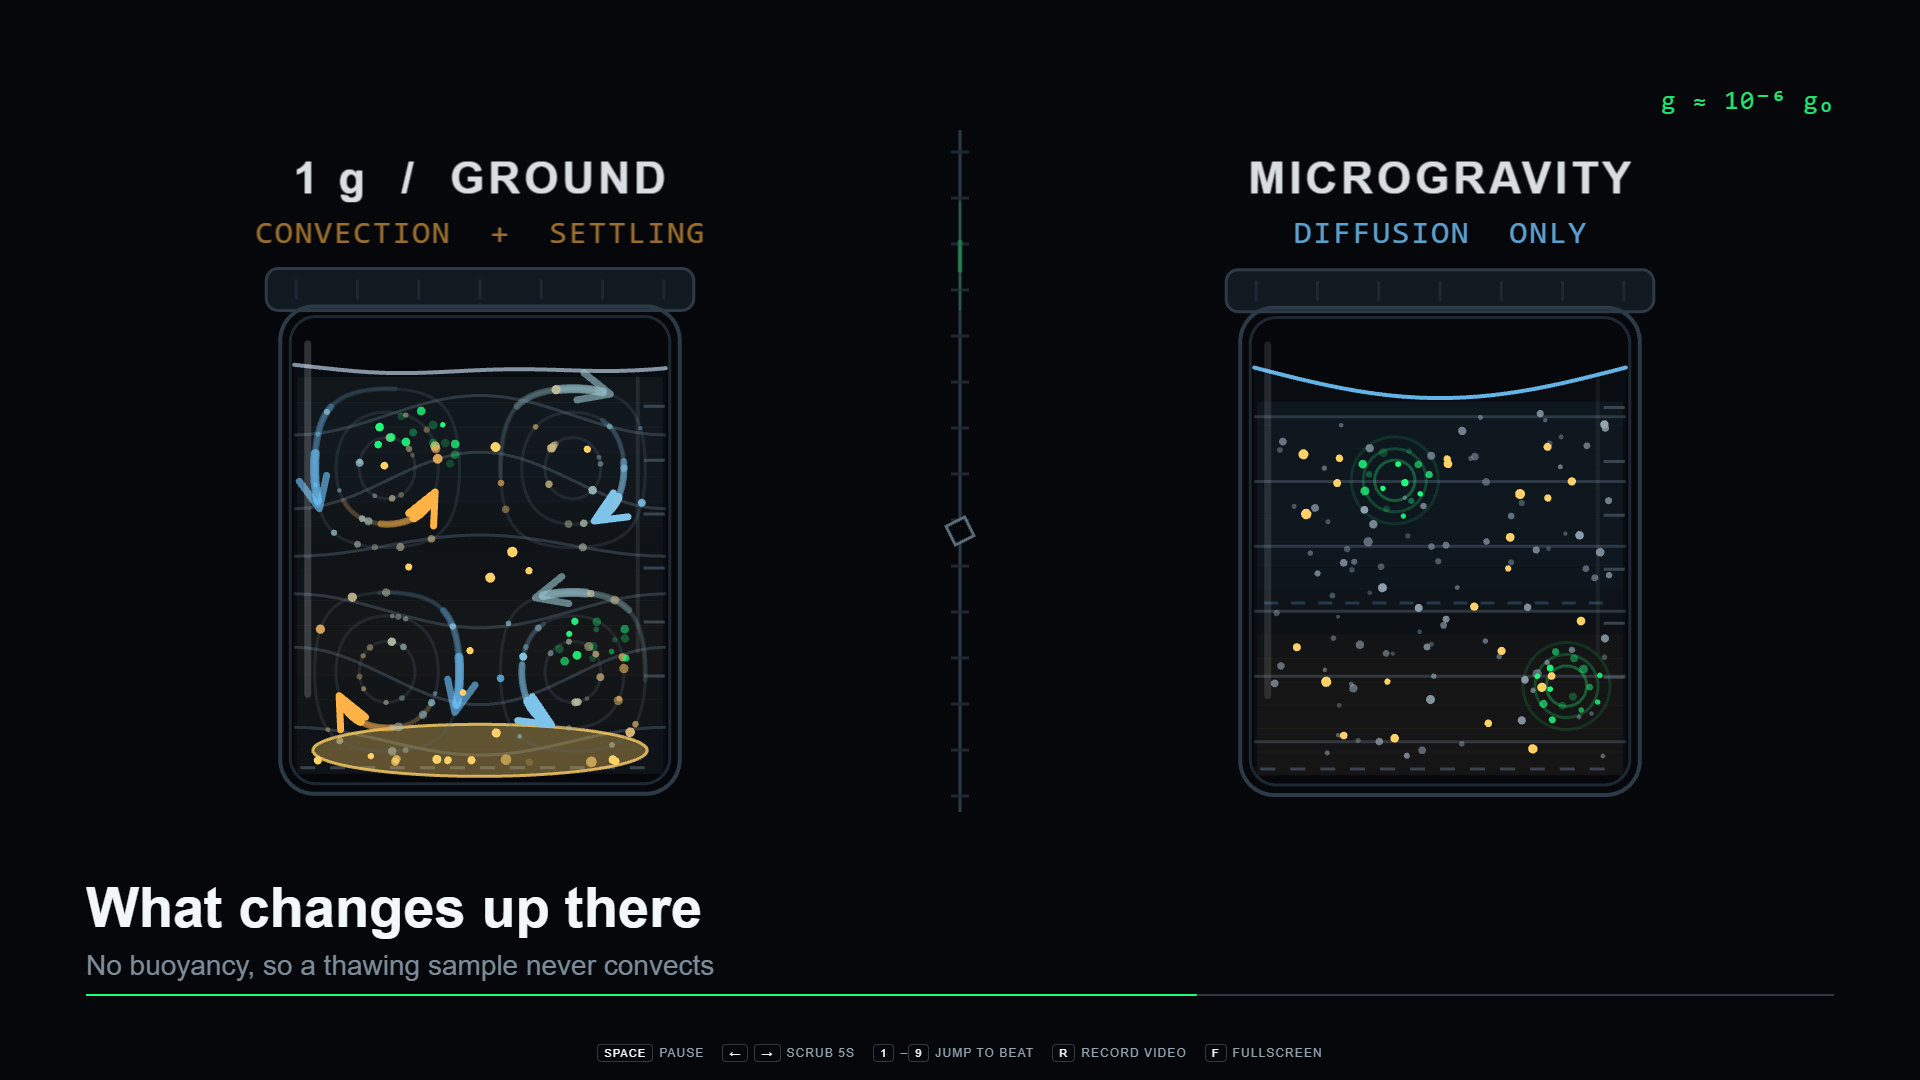
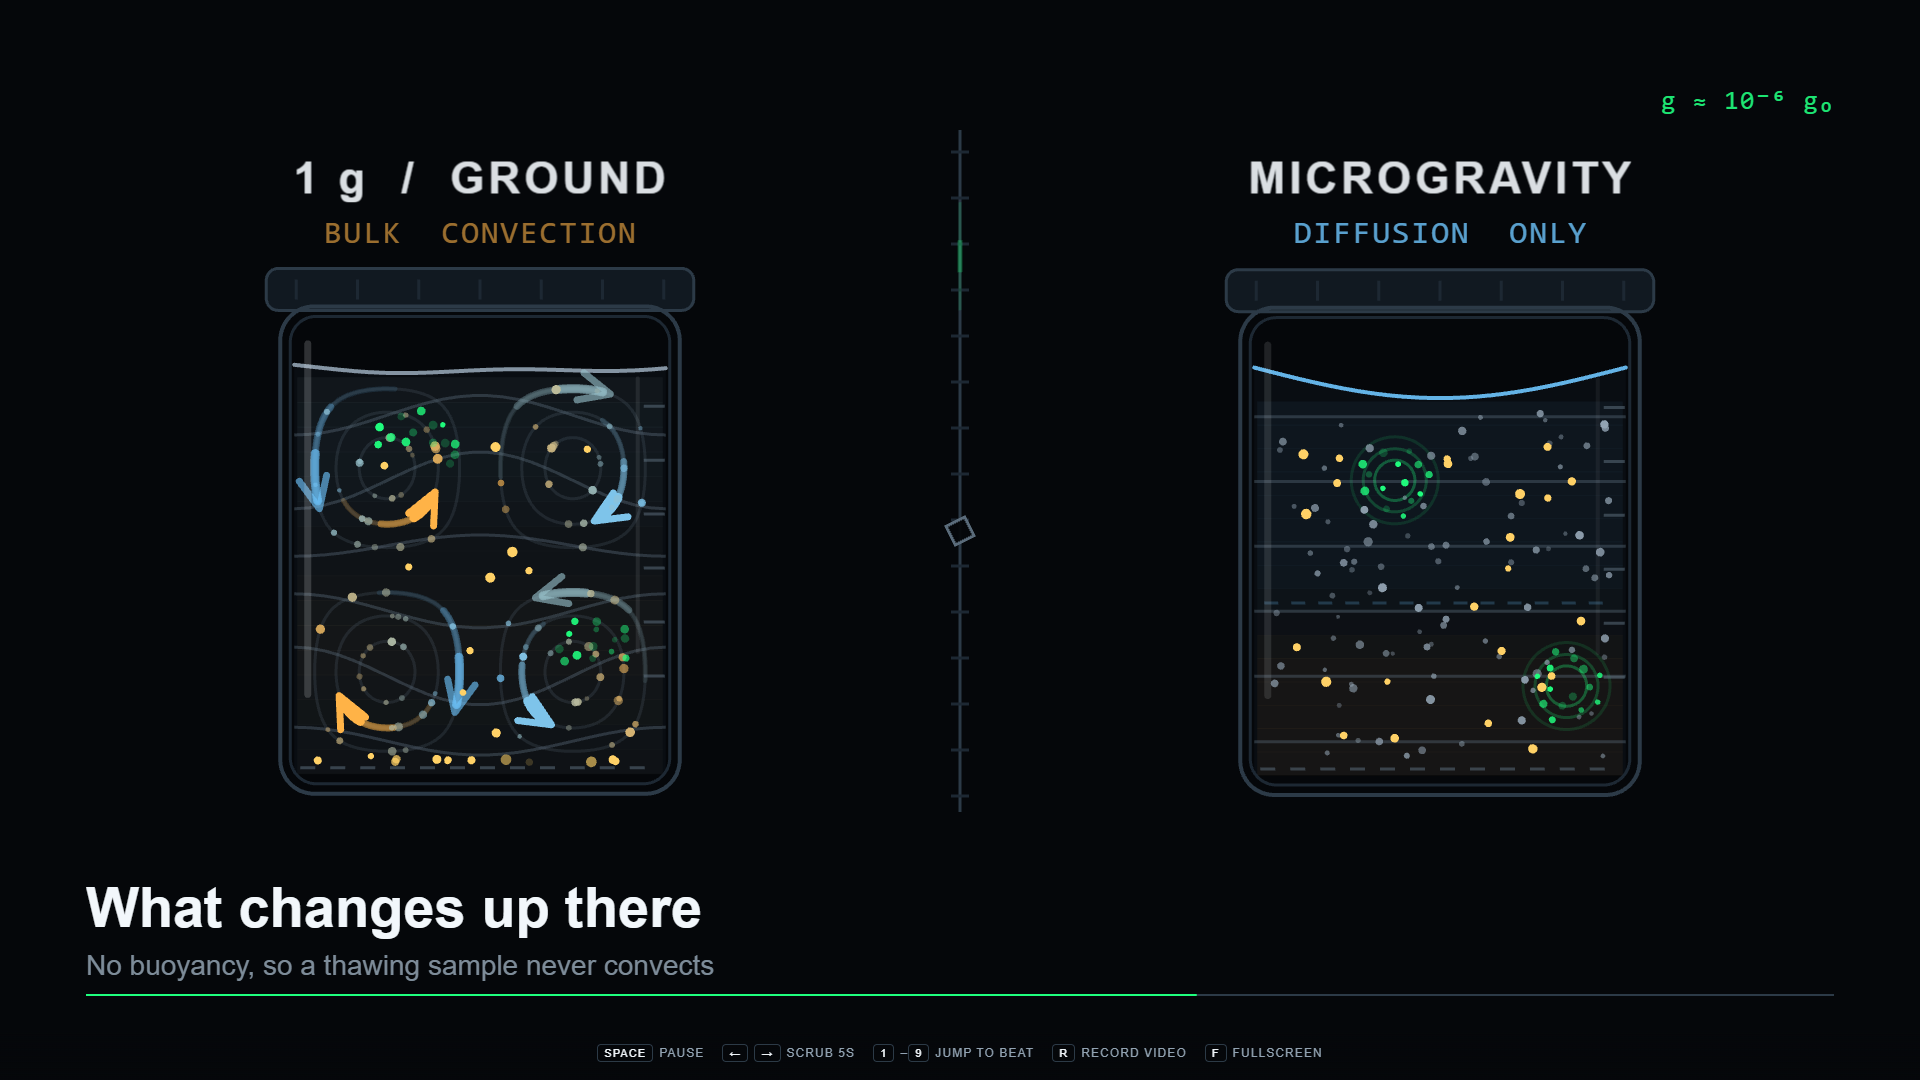
Remove sedimentation from the microgravity scene: it does not occur
The ground tube grew a settled pellet and was labelled "CONVECTION + SETTLING".
That contradicts the physics the experiment rests on. At 25 uL the gravitational
length scale kT/(m'g) is about 16.3 mm, which exceeds the liquid column; Stokes
settling over 20 h is roughly 20 um against about 0.80 mm of Brownian
displacement, and the Peclet number is about 0.61. Particles do not sort by
gravity in either condition.

Sedimentation being absent is precisely why buoyancy-driven convection during
thaw is the interesting variable, so depicting settling undercut the argument
the scene exists to make. Label is now "BULK CONVECTION" and the pellet is gone.

Changed region(s): [[0.125, 0.1833, 0.375, 0.2444], [0.1562, 0.6722, 0.3438, 0.7333]]

diff --git a/src/scenes/microgravity.js b/src/scenes/microgravity.js
@@ -517,8 +517,13 @@ export default {
     const SSIZE = Math.max(30, Math.round(H * 0.0296)); // 32
     const titleL = mkLabel('1 g  /  GROUND', cxL, TITLE_Y, TSIZE, '700', palette.ink, 4);
     const titleR = mkLabel('MICROGRAVITY', cxR, TITLE_Y, TSIZE, '700', palette.ink, 4);
+    // NOT "convection + settling". Sedimentation is absent in BOTH conditions:
+    // the gravitational length scale kT/(m'g) is about 16.3 mm, which exceeds the
+    // liquid column in a 25 uL tube, and the Peclet number is about 0.61. Showing
+    // particles settling on the ground side would contradict the physics that
+    // makes convection the interesting variable in the first place.
     const subL = mkLabel(
-      'CONVECTION  +  SETTLING',
+      'BULK  CONVECTION',
       cxL,
       SUB_Y,
       SSIZE,
@@ -660,13 +665,12 @@ export default {
       }
       g.stroke({ width: 3, color: palette.inkFaint, alpha: 0.55 });
 
-      // pellet: only gravity makes one
-      if (ground) {
-        const ph = 6 + 24 * cubicOut(p) + 1.2 * Math.sin(t * 1.7);
-        g.ellipse(cx, LIQ_BOT - ph * 0.9, FLOW_HW * 0.9, ph)
-          .fill({ color: palette.lipid, alpha: 0.34 })
-          .stroke({ width: 3, color: palette.lipid, alpha: 0.8 });
-      }
+      // No pellet on either side. An earlier version grew one on the ground tube,
+      // which was wrong: at 25 uL the gravitational length scale kT/(m'g) of about
+      // 16.3 mm exceeds the liquid column, Stokes settling over 20 h is ~20 um
+      // against ~0.80 mm of Brownian displacement, and Pe is about 0.61. Particles
+      // do not sort by gravity here. The only honest difference between the two
+      // tubes is bulk convective transport, which is drawn above.
     };
 
     // ------------------------------------------------------------------ frame
